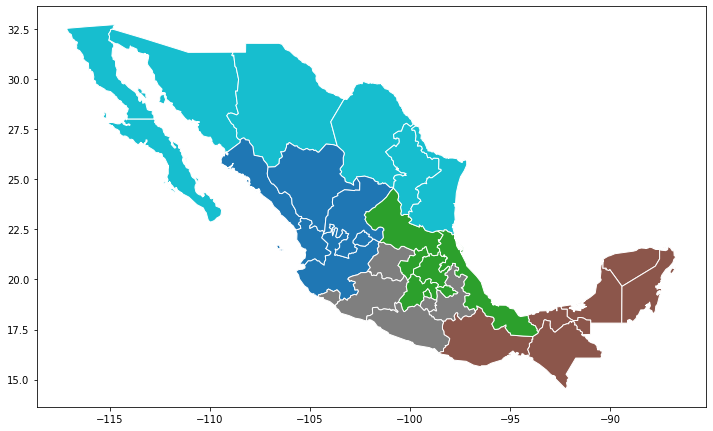
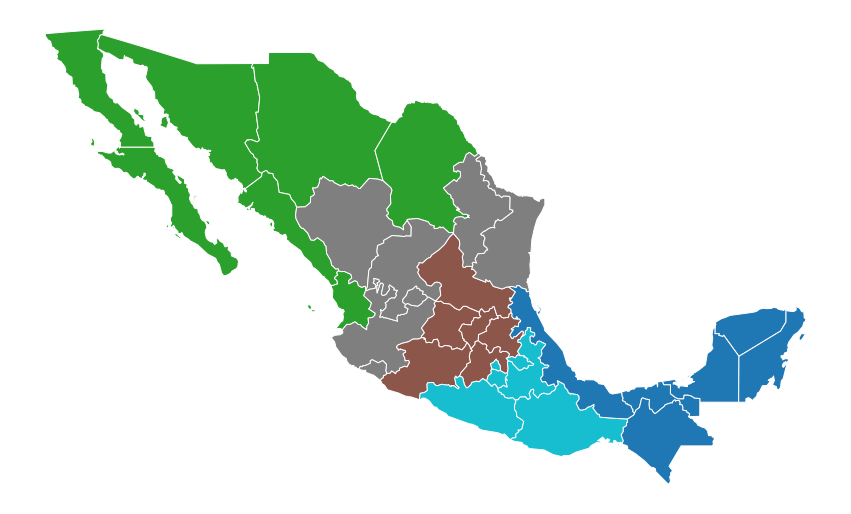
update paper, bib, & maxp fig

diff --git a/paper/paper.md b/paper/paper.md
@@ -43,71 +43,102 @@ affiliations:
    index: 6
  - name: Urban Big Data Centre, School of Social & Political Sciences, University of Glasgow
    index: 7
-date: 29 April 2021
+date: 01 November 2021
 bibliography: paper.bib
 ---
 
 
 # Summary
 
-Spatial optimization is a major spatial analytical tool in management and planning, the significance of which cannot be overstated. Spatial optimization models play an important role in designing and managing effective and efficient service systems such as transportation, education, public health, environmental protection, and commercial investment among others. To this end, spopt (spatial optimization) is under active development for the inclusion of newly proposed models and methods for regionalization, facility location, and transportation-oriented solutions.  Spopt is a submodule in the open-source spatial analysis library PySAL (Python Spatial Analysis Library) founded by Dr. Serge Rey and Dr. Luc Ancelin in 2005 [@rey2010pysal;@rey2015open;@Rey2021]. The goal of developing spopt is to provide management and decision-making support to all relevant practitioners and to further promote the appropriate and meaningful application of spatial optimization models in practice.
-
+Spatial optimization is a major spatial analytical tool in management and planning, the significance of which cannot be overstated. Spatial optimization models play an important role in designing and managing effective and efficient service systems such as transportation, education, public health, environmental protection, and commercial investment among others. To this end, spopt (\textbf{sp}atial \textbf{opt}imization) is under active development for the inclusion of newly proposed models and methods for regionalization, facility location, and transportation-oriented solutions.  Spopt is a submodule in the open-source spatial analysis library PySAL (Python Spatial Analysis Library) founded by Dr. Serge Rey and Dr. Luc Anselin in 2005 [@pysal2007;@rey2015open;@Rey2021]. The goal of developing spopt is to provide management and decision-making support to all relevant practitioners and to further promote the appropriate and meaningful application of spatial optimization models in practice.
 
 # Statement of need
 
-Spatial optimization methods/algorithms can be accessed in many ways. ArcGIS (https://www.esri.com/en-us/home) and TransCAD (https://www.caliper.com/) are two well-known commercial GIS software packages that provide modules designed for structuring and solving spatial optimization problems. The optimization functions they offer focus on a set classical single facility location methods (e.g., Weber, Median, Centroid, 1-center), routing and shortest path methods (e.g., shortest path on the network, least cost path over the terrain), and multi-facility location-allocation methods (e.g., coverage models, p-median problem). They are user-friendly and visually appealing, but the cost is relatively high [@murray2019contemporary]. 
+Spatial optimization methods/algorithms can be accessed in many ways. ArcGIS (https://www.esri.com/en-us/home) and TransCAD (https://www.caliper.com/) are two well-known commercial GIS software packages that provide modules designed for structuring and solving spatial optimization problems. The optimization functions they offer focus on a set classical single facility location methods (e.g., Weber, Median, Centroid, 1-center), routing and shortest path methods (e.g., shortest path on the network, least cost path over the terrain), and multi-facility location-allocation methods (e.g., coverage models, p-median problem). They are user-friendly and visually appealing, but the cost is relatively high [@murray2021contemporary]. 
 
-Open source software is another option to access spatial optimization. Although it may require users to have a certain level of programming experience, open source software provides relatively novel and comprehensive methods, and more importantly, it is free. This is particularly true for regionalization methods. They are very limited in commercial GIS software, and may only have grouping analysis for vector data and region identification for raster data. On the contrary, there are many application-oriented open source packages that facilitate the implementation of regionalization methods in various fields, including climate (e.g., HiClimR (https://cran.r-project.org/web/packages/HiClimR/index.html), synoptReg (https://cran.r-project.org/web/packages/synoptReg/index.html)), biography (e.g., Phyloregion (https://cran.r-project.org/web/packages/phyloregion/index.html), regioneR (http://bioconductor.org/packages/release/bioc/html/regioneR.html)), hydrology (e.g., nsRFA(https://cran.r-project.org/web/packages/nsRFA/index.html)), agricultural (e.g., OpenLCA (https://www.openlca.org/)), and so on. The functions of graph regionalization with clustering and partitioning have been provided by several packages such as Rgeoda, maxcut: Max-Cut Problem, RBGL: R Boost Graph Library, and grPartition. They are probably the most closely related projects to the regionalization section of spopt, however, they are written in R and MATLAB. Therefore, it is necessary to develop an open source optimization package written in Python that focuses on regionalization.
-
+Open-source software is another option to access spatial optimization. Although it may require users to have a certain level of programming experience, open-source software provides relatively novel and comprehensive methods, and more importantly, it is free and can be easily replicated. This is particularly true for regionalization and facility-location methods. Regionalization methods are limited in commercial GIS software, and may only have grouping analysis for vector data and region identification for raster data. On the contrary, there are many application-oriented open-source packages that facilitate the implementation of regionalization methods in various fields, including climate (e.g., HiClimR (https://cran.r-project.org/web/packages/HiClimR/index.html), synoptReg (https://cran.r-project.org/web/packages/synoptReg/index.html)), biography (e.g., Phyloregion (https://cran.r-project.org/web/packages/phyloregion/index.html), regioneR (http://bioconductor.org/packages/release/bioc/html/regioneR.html)), hydrology (e.g., nsRFA(https://cran.r-project.org/web/packages/nsRFA/index.html)), agricultural (e.g., OpenLCA (https://www.openlca.org/)), and so on. The functions of graph regionalization with clustering and partitioning have been provided by several packages such as Rgeoda, maxcut: Max-Cut Problem, RBGL: R Boost Graph Library, and grPartition. They are probably the most closely related projects to the regionalization section of spopt, however, they are written in R and MATLAB. For facility-location methods, commercial software such as TransCAD and ArcGIS implements models using a heuristic approach. However, they don't provide details about the solution found, which limits the interpretability of the results (Chen et al., 2021). On the other hand, existing open-source packages mostly aim at solving coverage problems such as PySpatialOpt (https://github.com/apulverizer/pyspatialopt), Allagash (https://apulverizer.github.io/allagash/) and maxcovr (https://github.com/njtierney/maxcovr), but the available models, solvers, and overall accessibility vary significantly.  Therefore, it is necessary to develop an open-source optimization package written in Python that includes various types of classic facility-location methods with a wide range of supported optimization solvers.
 
 # Current functionality 
 
-Originating from the region module in PySAL, spopt is under active development for the inclusion of newly proposed models and methods for regionalization. Six models are developed for aggregating a large set of geographic units (with small footprints) into a smaller number of regions (with large footprints). They are:
+Originating from the region module in PySAL, spopt is under active development for the inclusion of newly proposed models and methods for regionalization and facility location. Regarding regionalization, six models are developed for aggregating a large set of geographic units (with small footprints) into a smaller number of regions (with large footprints). They are:
+
 1. Max-p-regions: the clustering of a set of geographic areas into the maximum number of homogeneous and spatially contiguous regions such that the value of a spatially extensive regional attribute is above a predefined threshold [@duque2012max;@wei2020efficient].
 2. Spatially-encouraged spectral clustering (spenc): an algorithm to balance spatial and feature coherence using kernel combination in spectral clustering [@wolf2020].
 3. Region-K-means: K-means clustering for regions with the constraint that each cluster forms a spatially connected component.
 4. Automatic Zoning Procedure (AZP): the aggregation of data for a larger number of zones into a prespecified smaller number of regions based on a predefined type of objective function [@openshaw1977geographical;@openshaw1995algorithms].
-5. Skater: a constrained spatial regionalization algorithm based on spanning tree pruning. Specifically, the number of edges is prespecified to be cut in a continuous tree to group spatial units into contiguous regions [@assunccao2006efficient]. 
+5. Skater: a constrained spatial regionalization algorithm based on spanning tree pruning. Specifically, the number of edges is prespecified to be cut in a continuous tree to group spatial units into contiguous regions [@assunccao2006efficient].
 6. WardSpatial: an agglomerative clustering (each observation starts in its own cluster, and pairs of clusters are chosen to merge at each step) using ward linkage (the goal is to minimize the variance of the clusters) with a spatial connectivity constraint ([sklearn.cluster.AgglomerativeClustering](sklearn.cluster.AgglomerativeClustering: https://scikit-learn.org/stable/modules/generated/sklearn.cluster.AgglomerativeClustering.html)).
 
 Take the functionality of Max-p-regions as an example. Other methods can be applied in a similar process, including importing the needed packages, imputing and reading data, defining the parameters, solving the model, and plotting the solution. 
 
 ```python
 from spopt.region import MaxPHeuristic as MaxP
-import matplotlib.pyplot as plt
-import geopandas as gpd
-import libpysal
-# input the data on regional incomes for Mexican states as an example.
-mexico = gpd.read_file(libpysal.examples.get_path('mexicojoin.shp'))
-# specify a number of parameters that will serve as input to the Max-p-regions model. Details can be found # on https://pysal.org/spopt/notebooks/maxp.html.
-attrs_name = [f'PCGDP{2000}']
+import geopandas, libpysal
+# Read in the data on regional incomes for Mexican states.
+mexico = geopandas.read_file(libpysal.examples.get_path("mexicojoin.shp"))
+# Specify parameters for the Max-p-regions model.
+# Details can be found at https://pysal.org/spopt/notebooks/maxp.html.
+attrs_name = [f"PCGDP{2000}"]
 w = libpysal.weights.Queen.from_dataframe(mexico)
-threshold, top_n, mexico['count'] = 6, 2, 1
-threshold_name = 'count'
-# solve the Max-p-regions model.
+threshold_name, threshold, top_n, mexico["count"] = "count", 6, 2, 1
+# Solve the Max-p-regions model.
 model = MaxP(mexico, w, attrs_name, threshold_name, threshold, top_n)
 model.solve()
-# plot the model solution.
-mexico['maxp_new'] = model.labels_
-mexico.plot(column='maxp_new', categorical=True,  edgecolor='w')
+# Plot the model solution.
+mexico["maxp_new"] = model.labels_
+mexico.plot(column="maxp_new", categorical=True, edgecolor="w");
 ```
-The corresponding solution of Max-p-regions running the above code is shown in \autoref{fig: maxp}
+
+The corresponding solution of Max-p-regions running the above code is shown in \autoref{fig: maxp}.
 It results in five regions, three of which have six states, and two with seven states each. Each region is a spatially connected component, as required by the Max-p-regions problem.
 
 ![The solution of Max-p-regions when 32 Mexican states are clustered into the maximum number of regions such that each region has at least 6 states and homogeneity in per capita gross domestic product in 2000 is maximized.\label{fig: maxp}](figs/mexico_maxp.png)
 
+For facility-location, four models, including two coverage models and two location-allocation models based on median and center problems, are developed using an exact approach.
+
+1. Location Set Covering Problem (LSCP): Finding the minimum number of facilities and their locations such that all demands are covered within the maximal distance or time standard [@Toregas1971].
+2. Maximal Covering Location Problem (MCLP): Locating a prespecified number of facilities such that demand coverage within a maximal service distance or time is maximized [@Church1974].
+3. P-Median Problem: Locating \textit{p} facilities and allocating the demand served by these facilities so that the total weighted assignment distance or time is minimized [@ReVelle1970]. 
+4. P-Center Problem: Locating \textit{p} facilities and allocating the demand served by these facilities to minimize the maximum assignment distance or time between demands and their allocated facilities [@Hakimi1964].
+
+For example, Maximal Covering Location Model functionality is used to select 4 facilities out of 16 store sites along census tracts belonging to San Francisco, as shown in \autoref{fig: mclp}. Other facility-location methods can be applied in a similar way.
+
+```python
+from spopt.locate.coverage import MCLP
+import geopandas, numpy, pandas, pulp
+# Read in the datasets 
+ntw_dist = pandas.read_csv("SF_network_distance_candidateStore_16_censusTract_205_new.csv")
+demand_points = pandas.read_csv("SF_demand_205_centroid_uniform_weight.csv", index_col=0)
+facility_points = pandas.read_csv("SF_store_site_16_longlat.csv", index_col=0)
+tract = geopandas.read_file("ServiceAreas_4.shp")
+# Create a store site to tract centroid distance matrix
+ntw_piv = ntw_dist.pivot_table(values="distance", index="DestinationName", columns="name")
+cost_matrix = ntw_piv.to_numpy()
+ai = demand_points["POP2000"].to_numpy()
+mclp = MCLP.from_cost_matrix(cost_matrix, ai, max_coverage=5000, p_facilities=4)
+mclp = mclp.solve(pulp.GLPK(msg=False))
+# Build a facility-demand array for the demand covered by each facility and plot results
+mclp.facility_client_array()
+facility_points_gdf = geopandas.GeoDataFrame(facility_points,
+    geometry=geopandas.points_from_xy(facility_points.long, facility_points.lat),
+).sort_values(by=["NAME"]).reset_index()
+demand_points_gdf = geopandas.GeoDataFrame(demand_points,
+    geometry=geopandas.points_from_xy(demand_points.long, demand_points.lat),
+).sort_values(by=["NAME"]).reset_index()
+plot_results(mclp, facility_points_gdf, demand_points_gdf, facility_gdf_shape[0], "MCLP")
+```
+
+![The solution of MCLP in a case of siting 4 facilities using 5 kilometers as the maximum service distance between facilities and demands.\label{fig: mclp}](figs/mclp.png)
 
 # Planned Enhancements
 
 Spopt is under active development and the spopt developers look forward to your extensive attention and participation. In the near future, there are three major enhancements we plan to pursue for spopt:
 
 1. The first stream will be on the enhancement of regionalization algorithms by including several novel extensions of the classical regionalization models, such as the integration of spatial data uncertainty and the shape of identified regions in the max-p-regions problem.
-2. The second direction involves providing an open source version of classical single and/or multi-facility location and location-allocation methods which have been included in commercial GIS software packages. 
-3. We anticipate adding functionality for solving traditional routing and transportation-oriented problems. Initially, this will come in the form of integer programming formulations of the Travelling Salesperson Problem [@miller1960integer] and the Transportation Problem [@koopmans1949optimum].
-
+2. The second direction involves adding capacity constraints and includes a polygon partial coverage on facility location models. No commercial and open-source software has provided these features before.
+3. We anticipate adding functionality for solving traditional routing and transportation-oriented optimization problems. Initially, this will come in the form of integer programming formulations of the Travelling Salesperson Problem [@miller1960integer] and the Transportation Problem [@koopmans1949optimum].
 
 # Acknowledgements
 We would like to thank all the contributors to this package. Besides, we would like to extend our gratitude to all the users for inspiring and questioning this package to make it better. Spopt development was partially supported by National Science Foundation Award #1831615 RIDIR: Scalable Geospatial Analytics for Social Science Research. 
-
 
 # References
